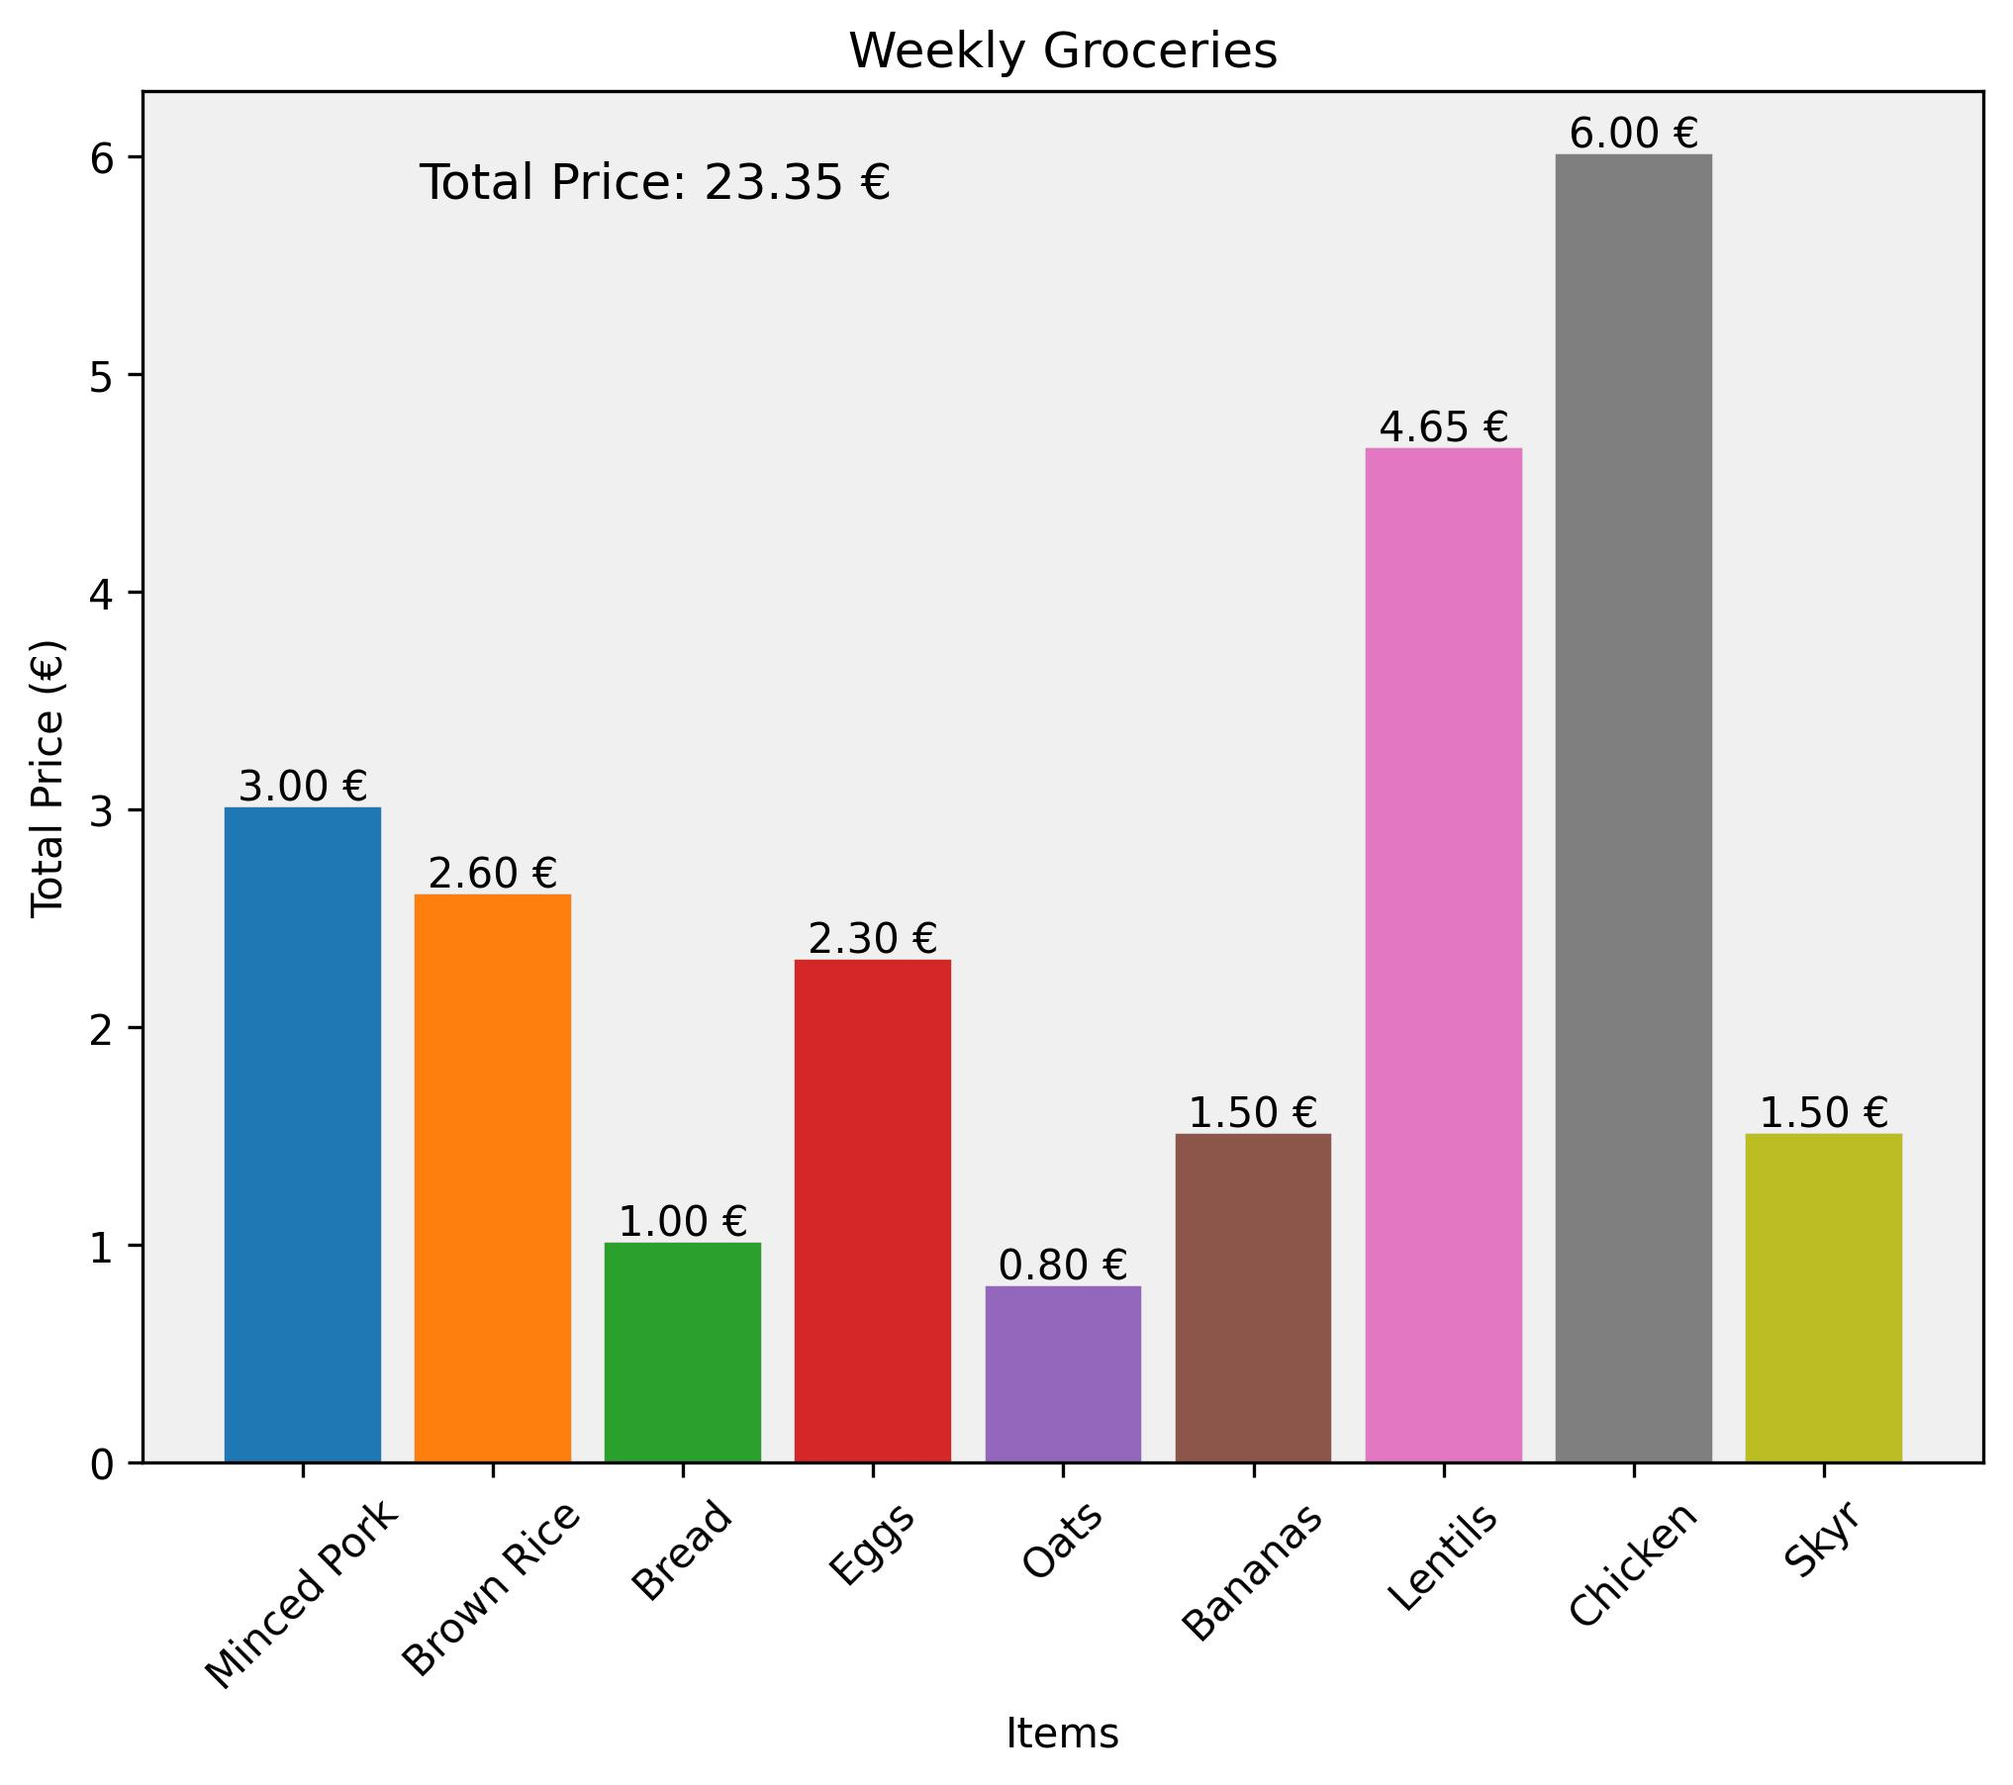
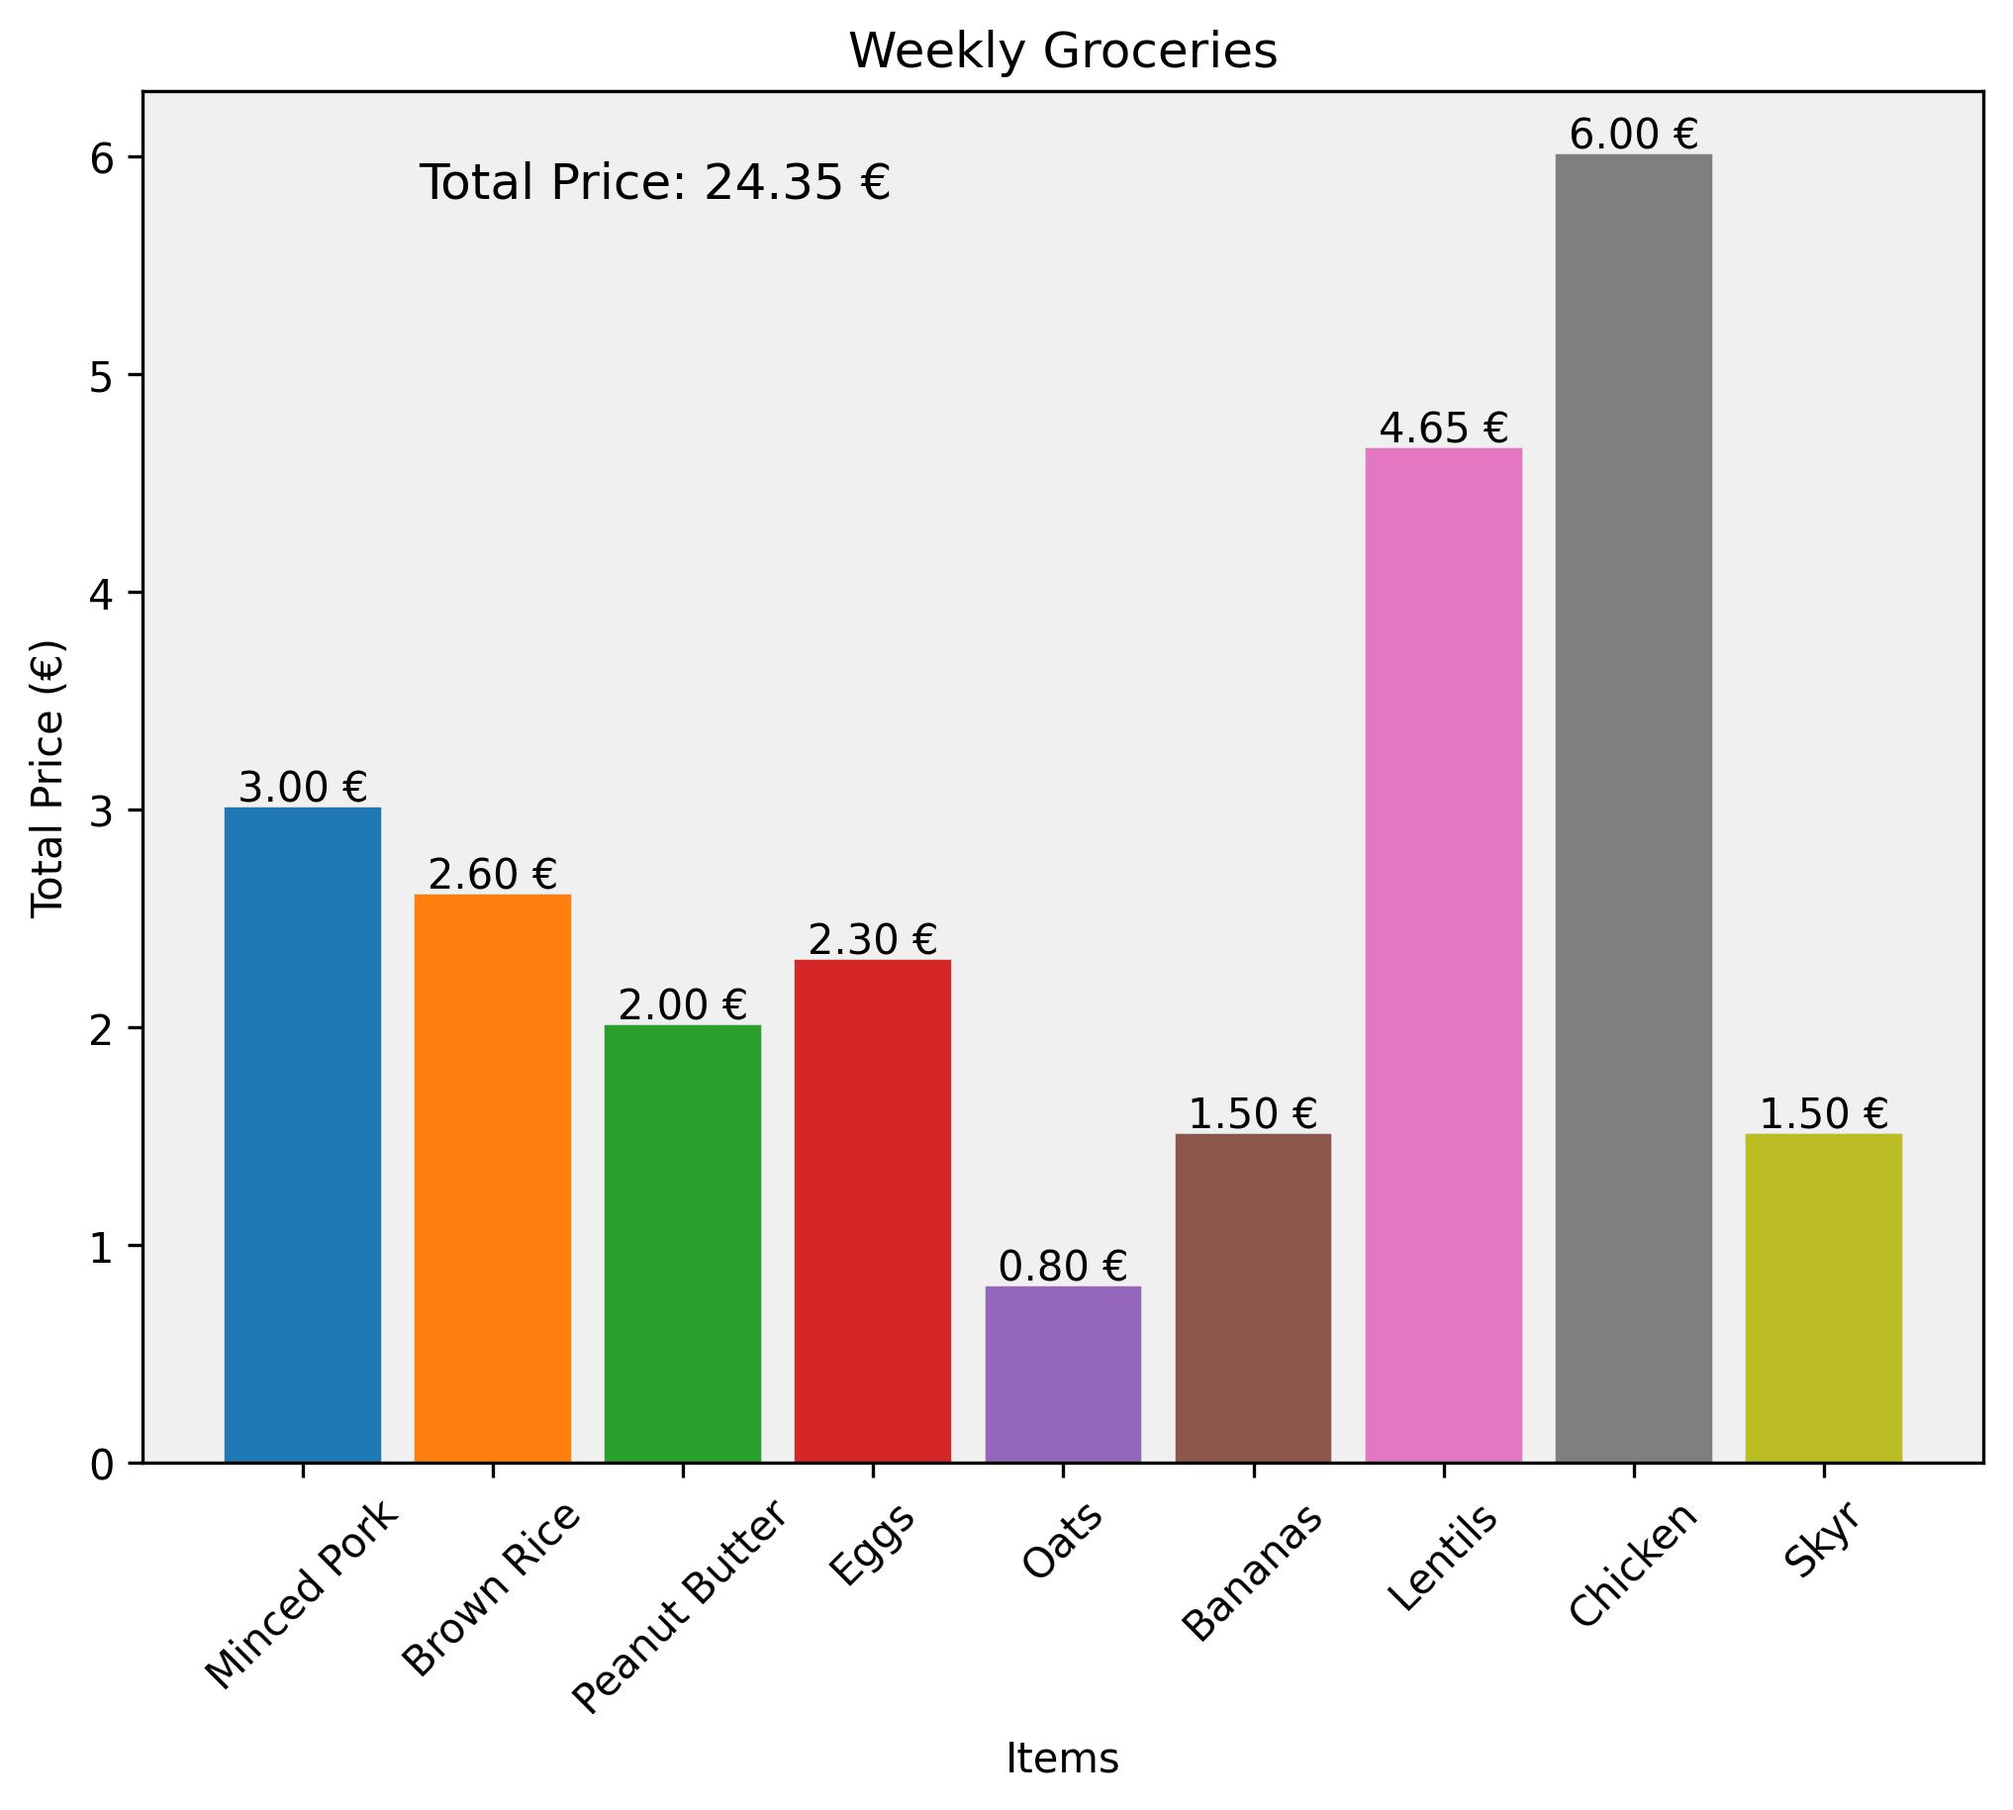
Removed Eggs and replaced with Peanut Butter

diff --git a/README.md b/README.md
@@ -1,0 +1,14 @@
+ WELCOME TO THIS PROJECT;
+
+ Introduction:
+
+
+ Content:
+
+ Purpose:
+
+ Disclaimer: 
+
+ Recomendations / Additions:
+
+ 
